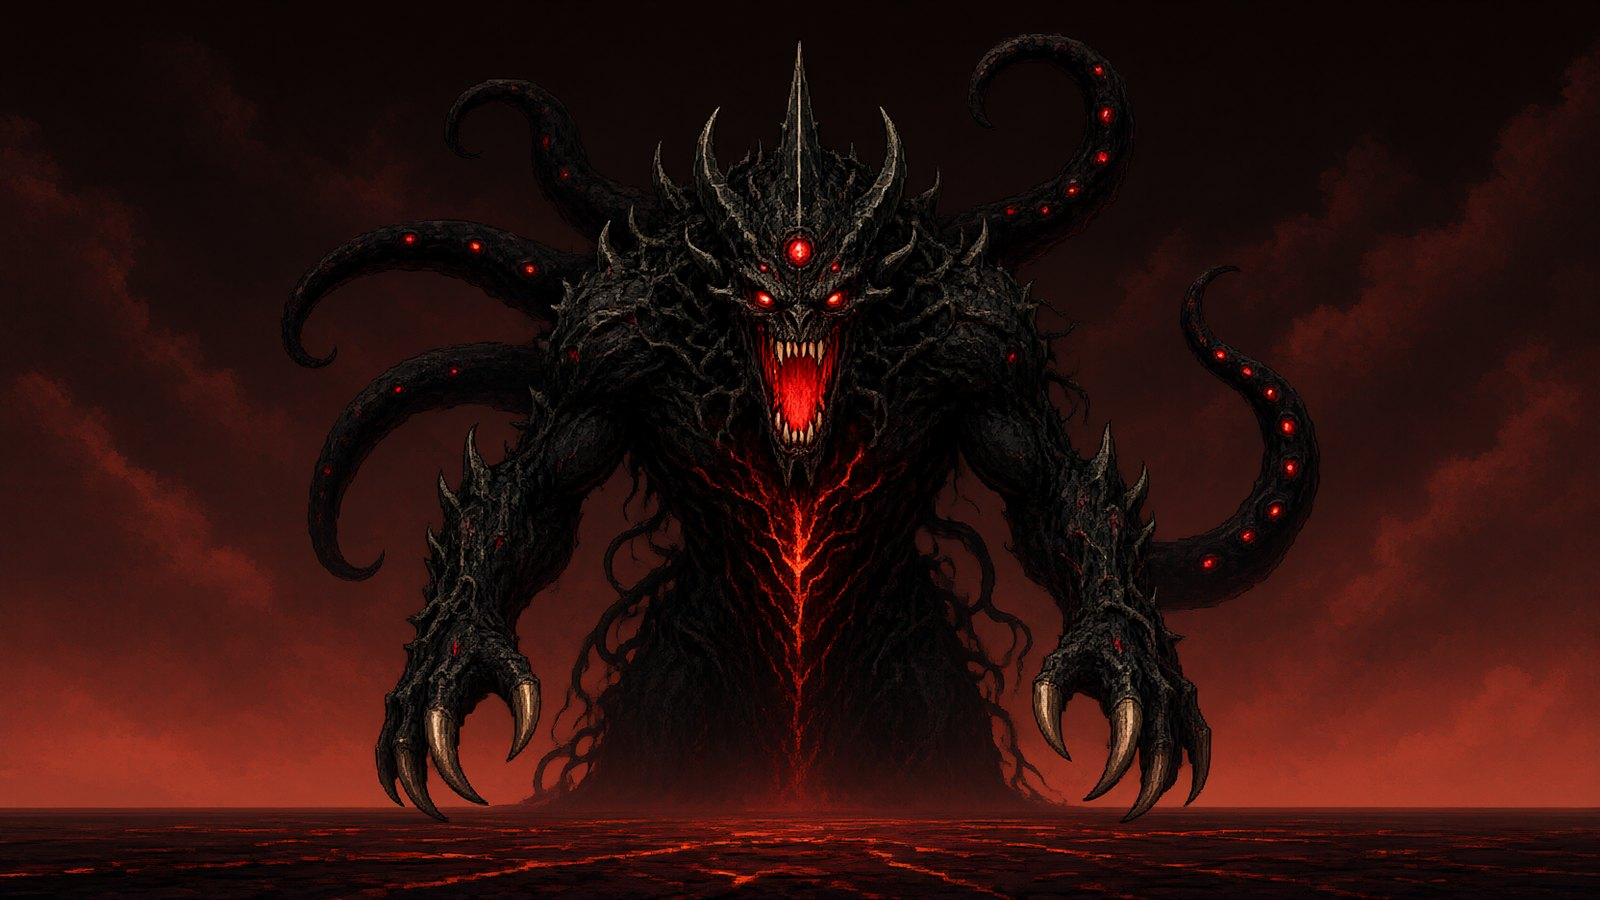
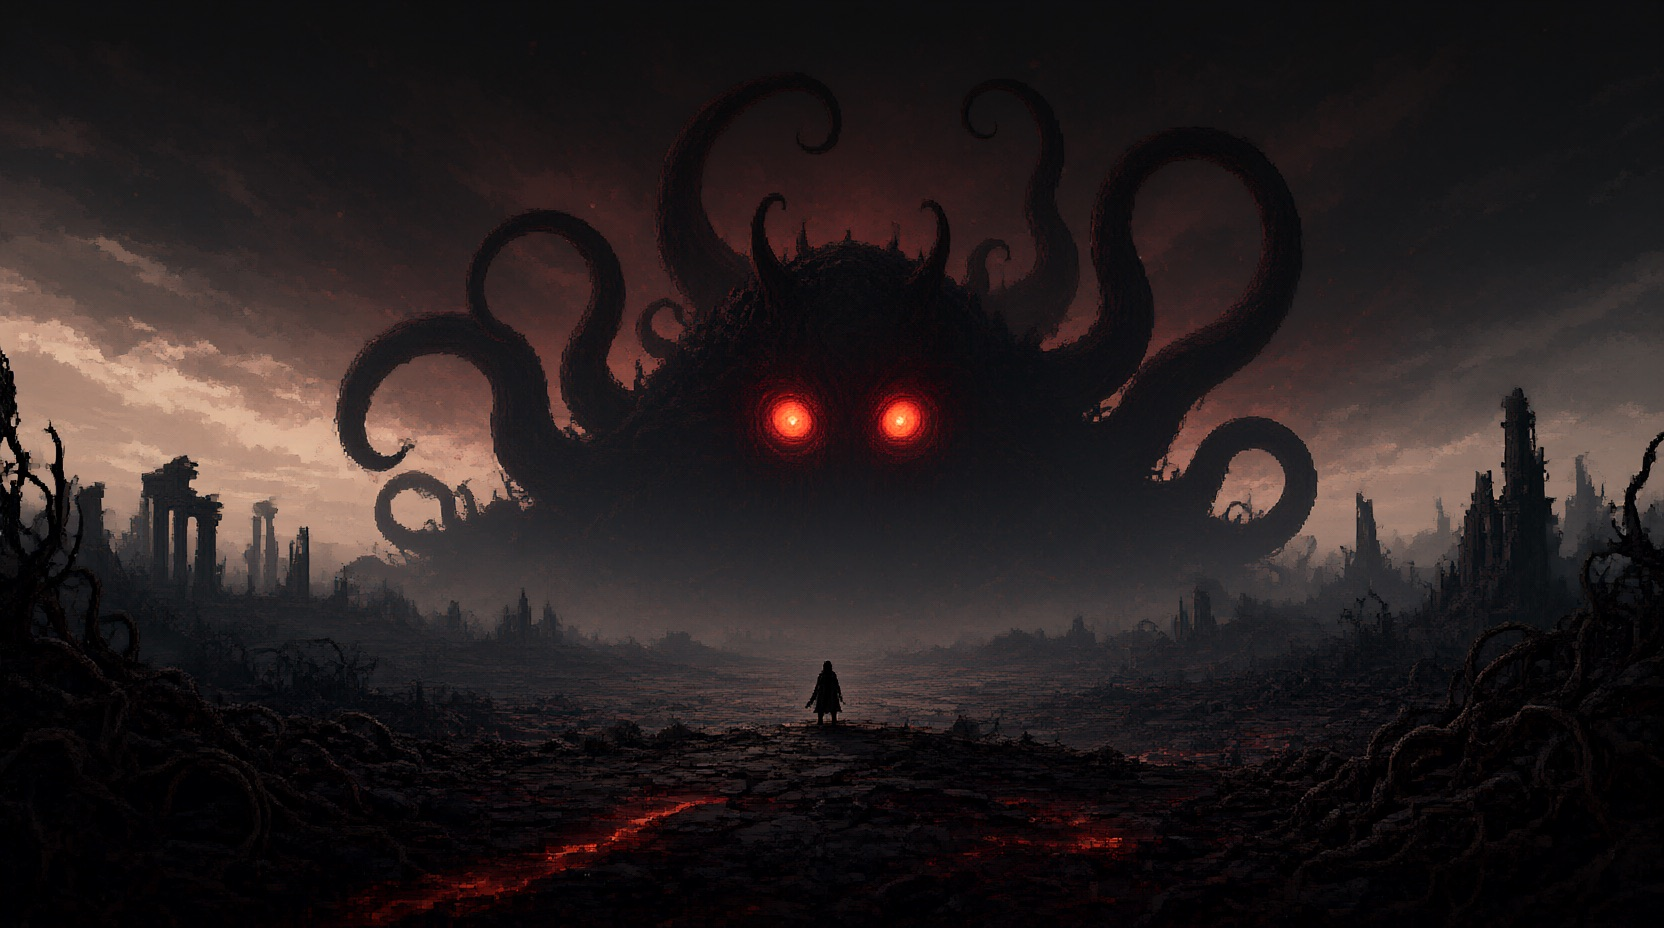
Boss fight: the far larger Kuro is only two eyes and the crown of tentacles over the horizon
Author 2026-11-12: the towering frontal figure was too fierce and had no 睥睨感 (the calm look-down of a god). The finale painting is regenerated: a vast dark plain with a tiny figure (the scale she liked, kept), and beyond the horizon only the top of an unimaginably large head — two calm red eyes and tentacles rising like a mountain range; no mouth, no claws, no roar. The shrunken battle field now fades out in the last third of the pull so the painting's own figure stands alone.

diff --git a/src/world/room/room.css b/src/world/room/room.css
@@ -793,7 +793,7 @@
 .boss-page.after .bs-giant{animation:bs-giant-in 4s 1.2s ease-in-out both}
 @keyframes bs-giant-in{0%{opacity:0}100%{opacity:1}}
 .boss-page.after .bs-field{animation:bs-pull 4s 1.2s cubic-bezier(.3,.1,.2,1) both;transform-origin:50% 76%}
-@keyframes bs-pull{0%{transform:scale(1)}100%{transform:scale(.16) translateY(900px)}}
+@keyframes bs-pull{0%{transform:scale(1);opacity:1}70%{opacity:1}100%{transform:scale(.16) translateY(900px);opacity:0}}
 .boss-page.after .bs-bg{animation:bs-bg-out 4s 1.2s ease-in-out both;transform-origin:50% 76%}
 @keyframes bs-bg-out{100%{transform:scale(.16) translateY(900px);opacity:0}}
 .boss-page.after .bs-top,.boss-page.after .bs-atb,.boss-page.after .bs-bossbar{opacity:0}
